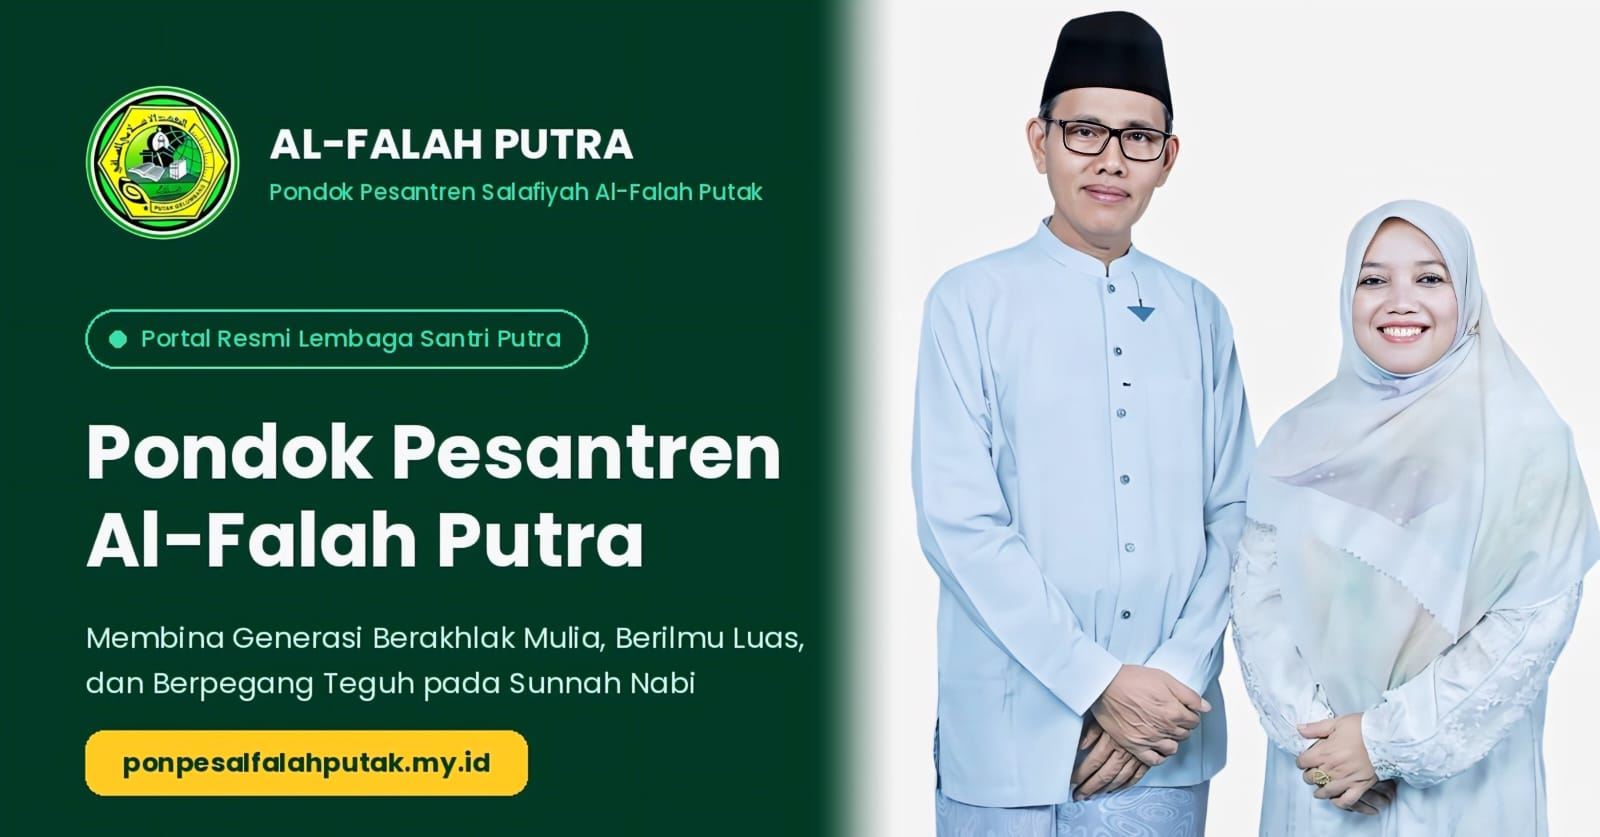
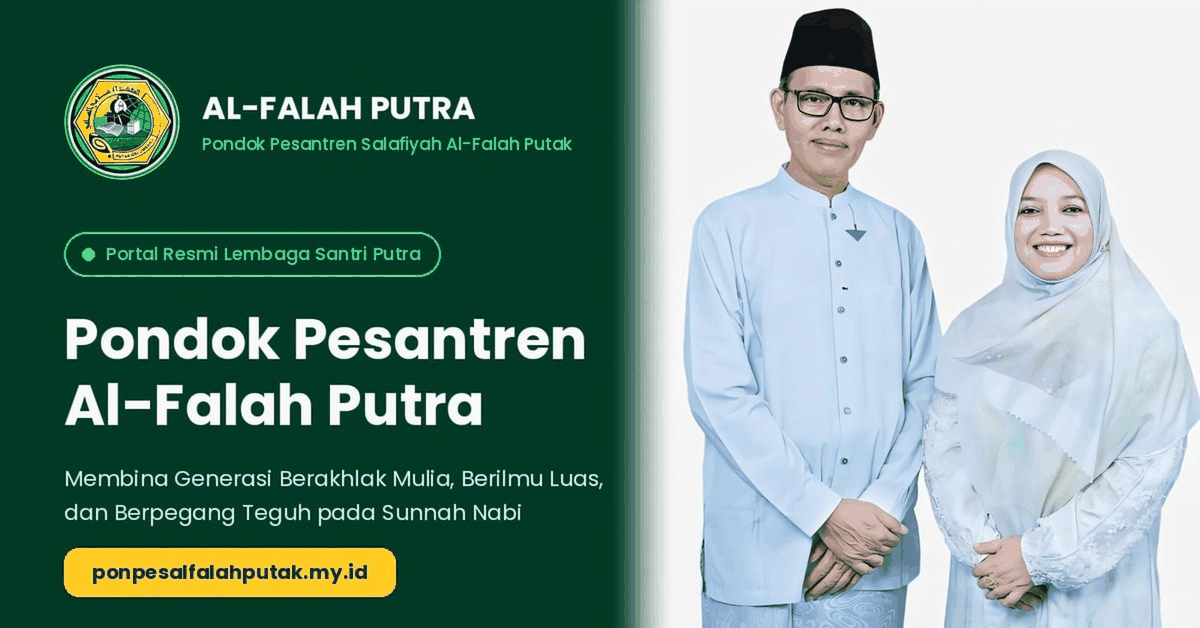
update

diff --git a/resources/views/layouts/public.blade.php b/resources/views/layouts/public.blade.php
@@ -38,18 +38,21 @@
     <meta property="og:title" content="@yield('title', 'PONDOK PESANTREN AL-FALAH PUTAK')">
     <meta property="og:description" content="@yield('meta_description', 'Media Resmi Pondok Pesantren Salafiyah Al-Falah Putak, Gelumbang, Muara Enim, Sumatera Selatan. Menempa insan santri beraqidah Ahlussunnah wal Jamaah.')">
     <meta property="og:url" content="{{ url()->current() }}">
-    <meta property="og:image" content="{{ asset('images/thumbail.png') }}?v=2">
-    <meta property="og:image:secure_url" content="{{ asset('images/thumbail.png') }}?v=2">
-    <meta property="og:image:type" content="image/png">
-    <meta property="og:image:width" content="1600">
-    <meta property="og:image:height" content="837">
+    <meta property="og:image" content="{{ asset('images/thumbnail-wa.jpg') }}?v=3">
+    <meta property="og:image:secure_url" content="{{ asset('images/thumbnail-wa.jpg') }}?v=3">
+    <meta property="og:image:type" content="image/jpeg">
+    <meta property="og:image:width" content="1200">
+    <meta property="og:image:height" content="628">
     <meta property="og:image:alt" content="PONDOK PESANTREN AL-FALAH PUTAK">
+
+    <!-- Fallback Gambar PNG Terkompresi -->
+    <link rel="image_src" href="{{ asset('images/thumbnail-wa.jpg') }}?v=3">
 
     <!-- Twitter Card (Large Image di Atas) -->
     <meta name="twitter:card" content="summary_large_image">
     <meta name="twitter:title" content="@yield('title', 'PONDOK PESANTREN AL-FALAH PUTAK')">
     <meta name="twitter:description" content="@yield('meta_description', 'Media Resmi Pondok Pesantren Salafiyah Al-Falah Putak, Gelumbang, Muara Enim, Sumatera Selatan.')">
-    <meta name="twitter:image" content="{{ asset('images/thumbail.png') }}?v=2">
+    <meta name="twitter:image" content="{{ asset('images/thumbnail-wa.jpg') }}?v=3">
 
     <!-- Structured Data JSON-LD untuk Google Search & Rich Snippet -->
     <script type="application/ld+json">
@@ -85,7 +88,7 @@
             }
         ],
         "foundingDate": "2005-03-05",
-        "telephone": "0851-8320-1627"
+        "telephone": "0821-1870-2718"
     }
     </script>
     <script type="application/ld+json">
